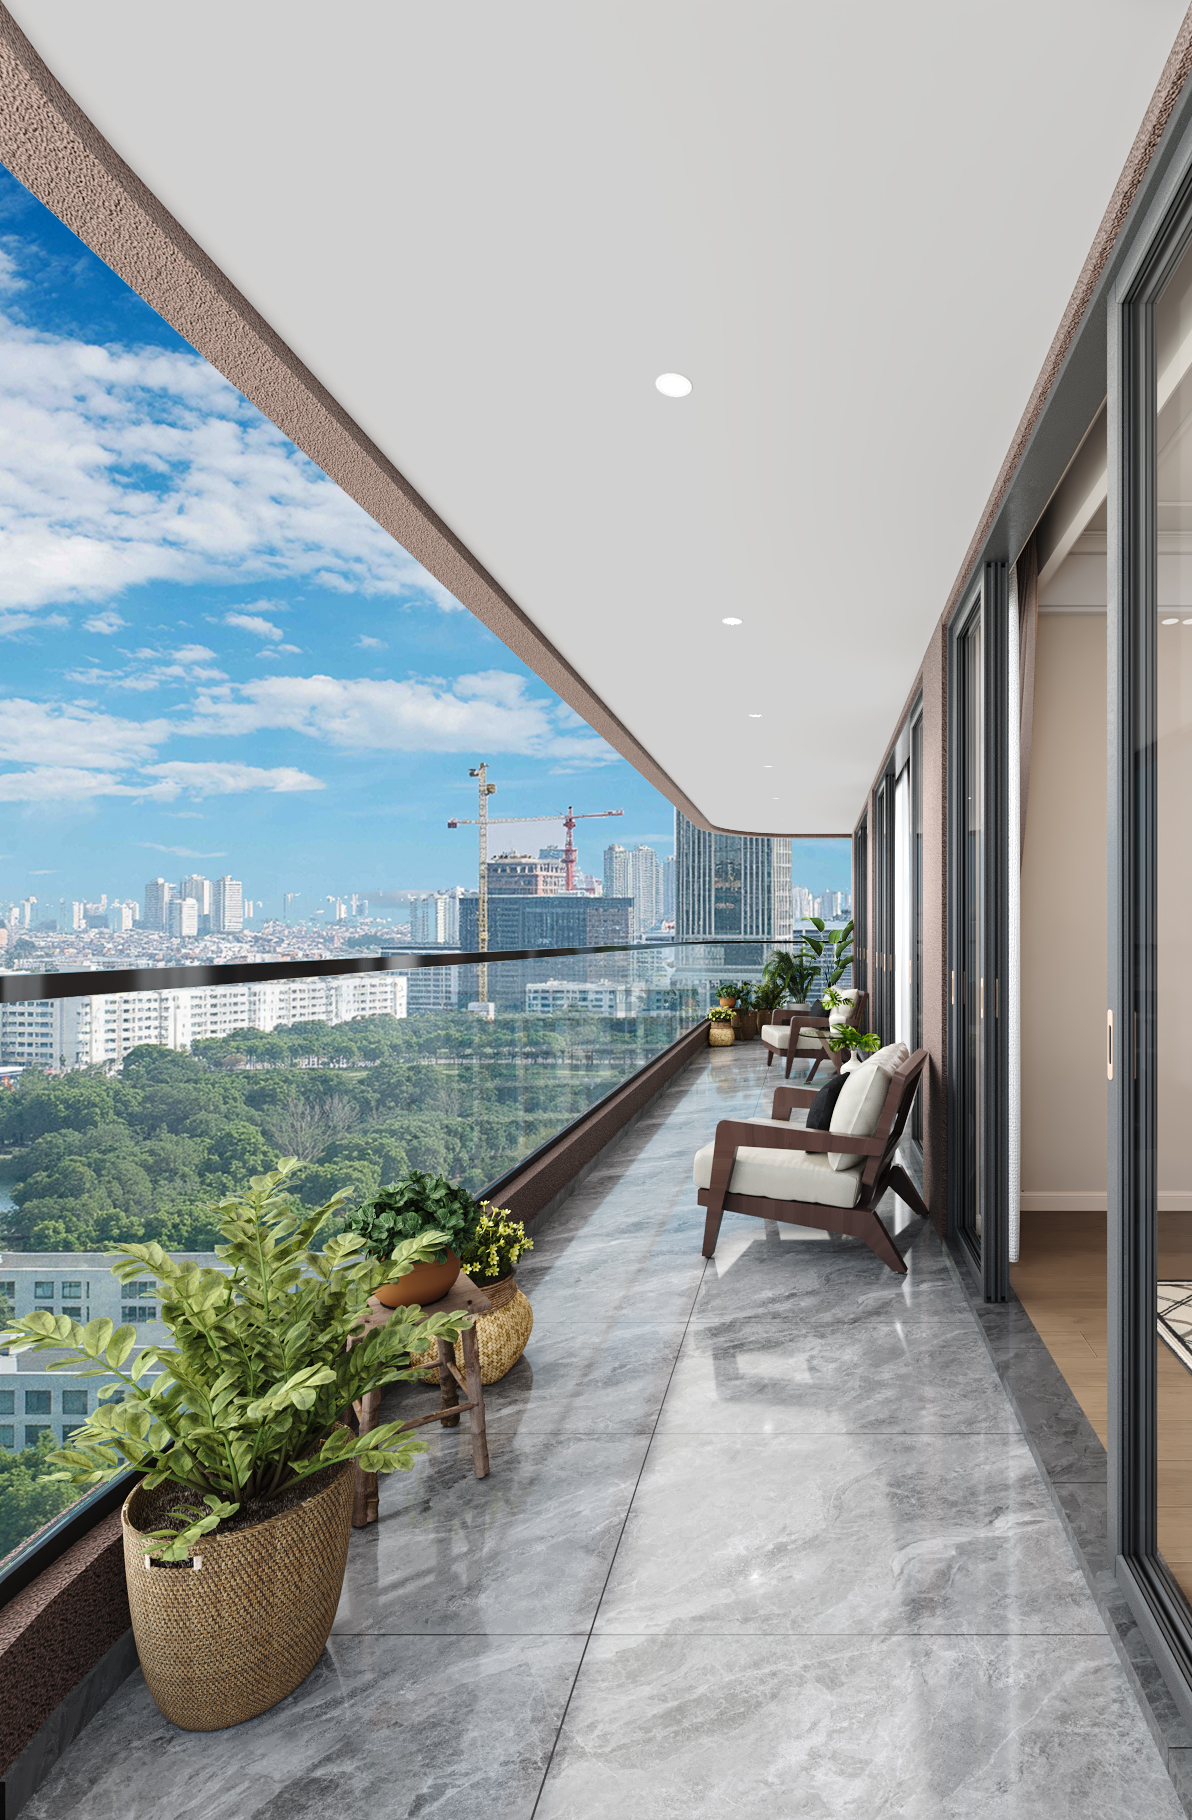
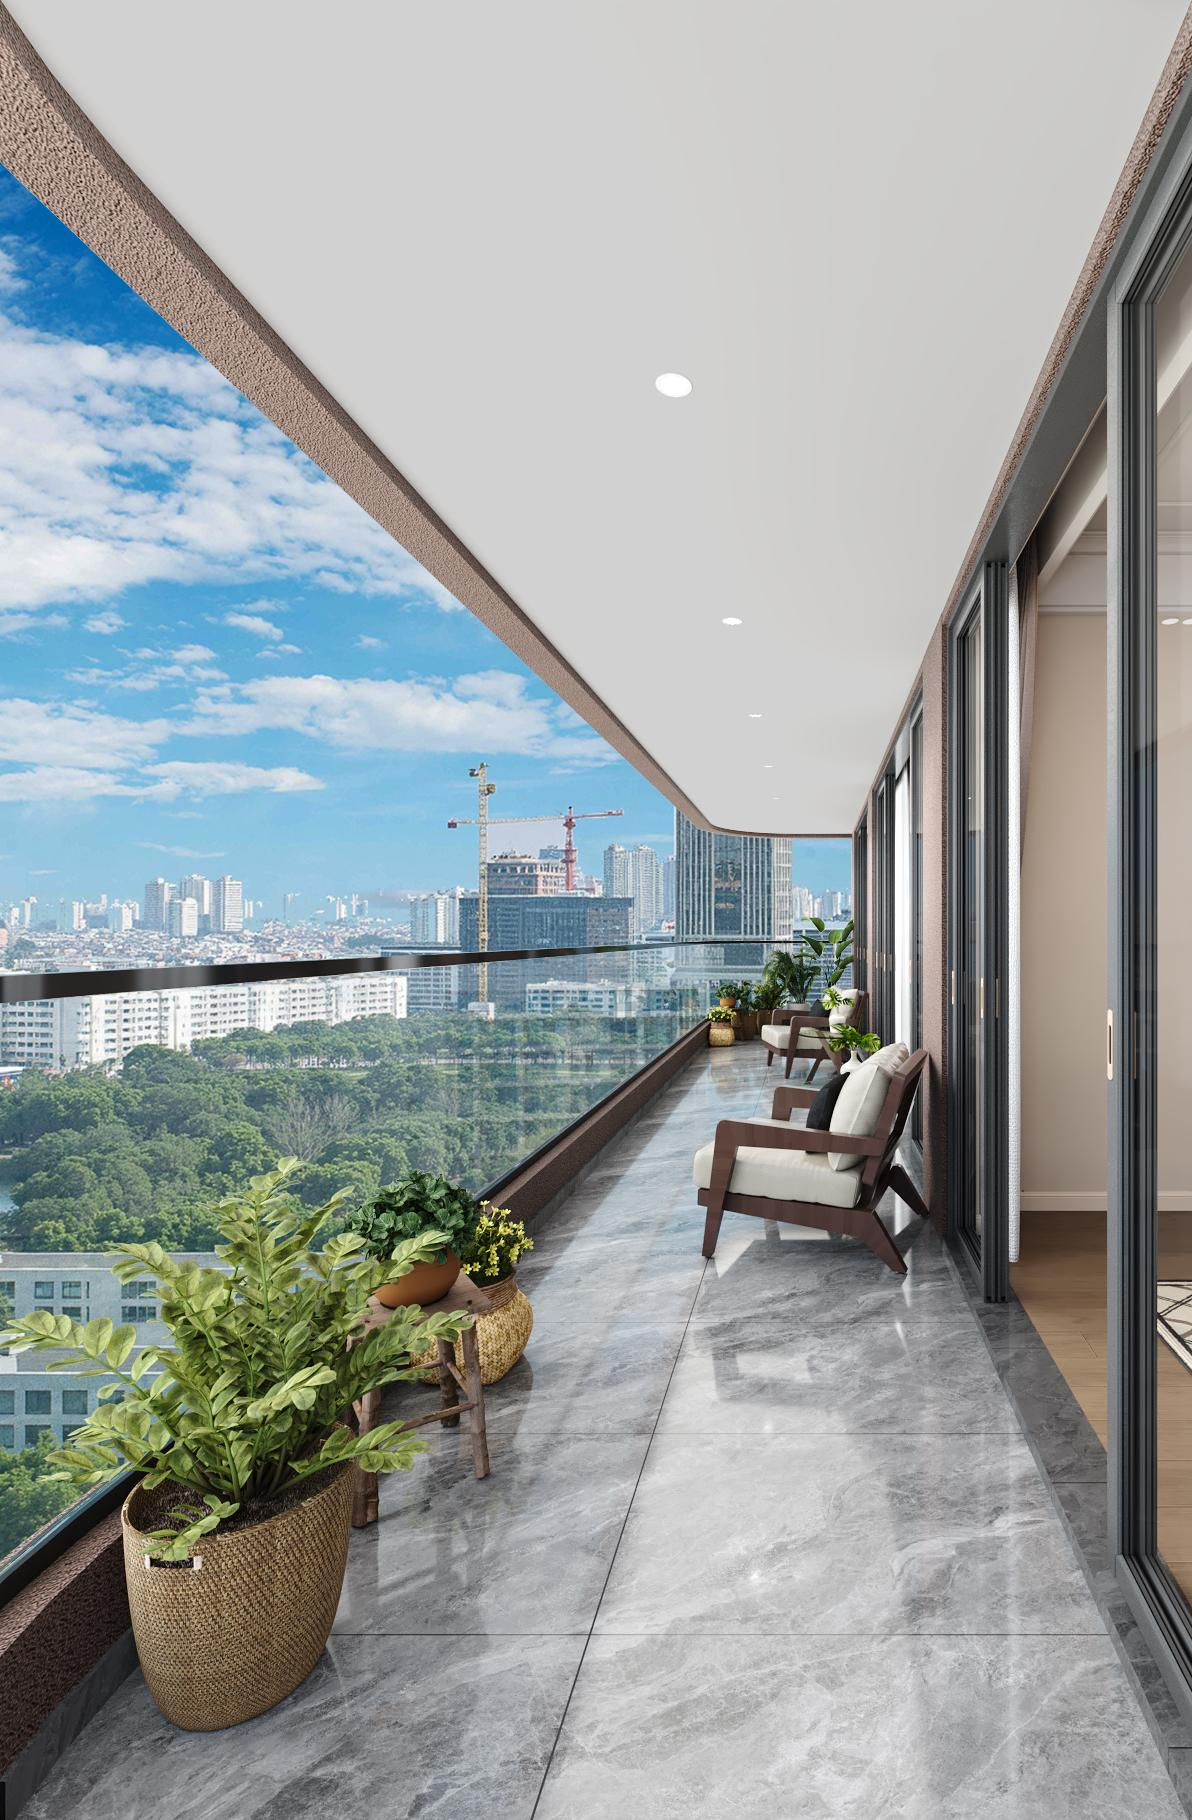
updated photos

diff --git a/src/components/UnitSection.jsx b/src/components/UnitSection.jsx
@@ -17,11 +17,11 @@ const units = [
     // the naming convention (c1.jpg, c2.jpg, etc.) allows for easy iteration in the code
     //this is how to import  "/"
 images: [
-  new URL("../assets/Apartments/type-b/c6.png", import.meta.url).href,
-  new URL("../assets/Apartments/type-b/c1.png", import.meta.url).href,
-  new URL("../assets/Apartments/type-b/c2.png", import.meta.url).href,
-  new URL("../assets/Apartments/type-b/c3.png", import.meta.url).href,
-  new URL("../assets/Apartments/type-b/c4.png", import.meta.url).href,
+  new URL("../assets/Apartments/type-b/c6.jpg", import.meta.url).href,
+  new URL("../assets/Apartments/type-b/c1.jpg", import.meta.url).href,
+  new URL("../assets/Apartments/type-b/c2.jpg", import.meta.url).href,
+  new URL("../assets/Apartments/type-b/c3.jpg", import.meta.url).href,
+  new URL("../assets/Apartments/type-b/c4.jpg", import.meta.url).href,
   new URL("../assets/Apartments/type-b/c5.jpg", import.meta.url).href,
 ],
 
@@ -38,14 +38,14 @@ images: [
     price: "Ask for Price",
 
 images: [
-  new URL("../assets/Apartments/type-a/b11.png", import.meta.url).href,
-  new URL("../assets/Apartments/type-a/a1.png", import.meta.url).href,
-  new URL("../assets/Apartments/type-a/b6.png", import.meta.url).href,
-  new URL("../assets/Apartments/type-a/b5.png", import.meta.url).href,
-  // new URL("../assets/Apartments/type-a/b4.png", import.meta.url).href,
+  new URL("../assets/Apartments/type-a/b11.jpg", import.meta.url).href,
+  // new URL("../assets/Apartments/type-a/a1.jpg", import.meta.url).href,
+  new URL("../assets/Apartments/type-a/b6.jpg", import.meta.url).href,
+  new URL("../assets/Apartments/type-a/b5.jpg", import.meta.url).href,
+  new URL("../assets/Apartments/type-a/b4.jpg", import.meta.url).href,
   new URL("../assets/Apartments/type-a/b10.jpg", import.meta.url).href,
   // new URL("../assets/Apartments/type-a/b3.png", import.meta.url).href,
-  new URL("../assets/Apartments/type-a/b8.png", import.meta.url).href,
+  new URL("../assets/Apartments/type-a/b8.jpg", import.meta.url).href,
 ],
 
     floor3d: "/models/psx_japanese_house.glb",
@@ -61,14 +61,14 @@ images: [
     price: "Ask for Price",
 
   images: [
-  new URL("../assets/Apartments/type-c/a14.png", import.meta.url).href,
-  new URL("../assets/Apartments/type-c/a5.png", import.meta.url).href,
-  new URL("../assets/Apartments/type-c/a3.png", import.meta.url).href,
-  new URL("../assets/Apartments/type-c/a2.png", import.meta.url).href,
-  new URL("../assets/Apartments/type-c/a7.png", import.meta.url).href,
+  new URL("../assets/Apartments/type-c/a14.jpg", import.meta.url).href,
+  new URL("../assets/Apartments/type-c/a5.jpg", import.meta.url).href,
+  new URL("../assets/Apartments/type-c/a3.jpg", import.meta.url).href,
+  new URL("../assets/Apartments/type-c/a2.jpg", import.meta.url).href,
+  new URL("../assets/Apartments/type-c/a7.jpg", import.meta.url).href,
   new URL("../assets/Apartments/type-c/a6.jpg", import.meta.url).href,
   new URL("../assets/Apartments/type-c/a13.jpg", import.meta.url).href,
-  new URL("../assets/Apartments/type-c/a10.png", import.meta.url).href,
+  new URL("../assets/Apartments/type-c/a10.jpg", import.meta.url).href,
   new URL("../assets/Apartments/type-c/a9.jpg", import.meta.url).href,
 ],
 
